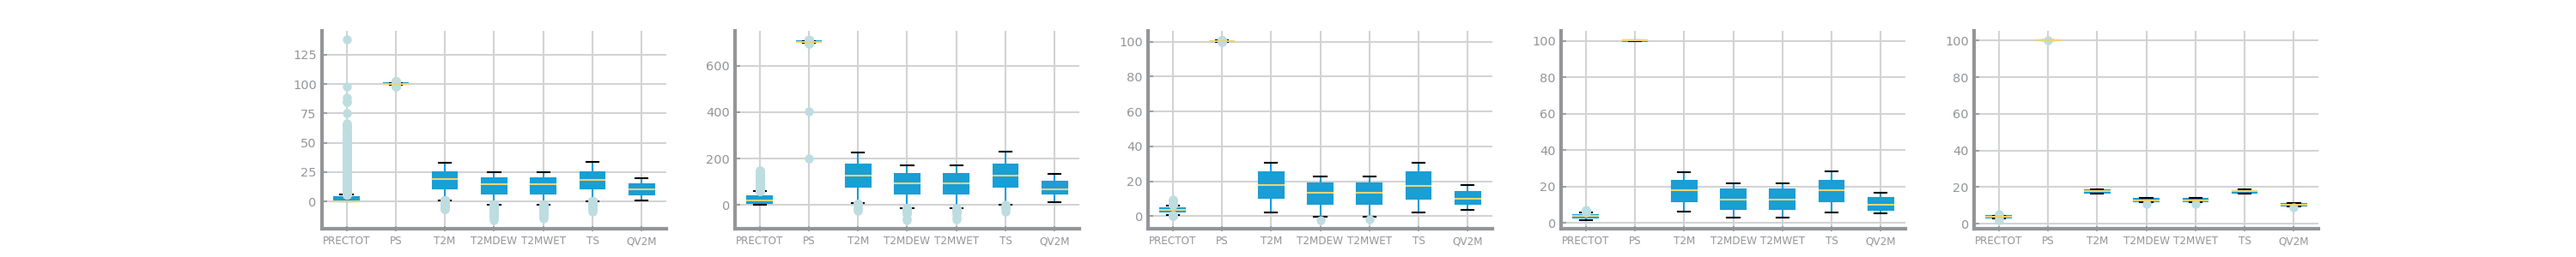
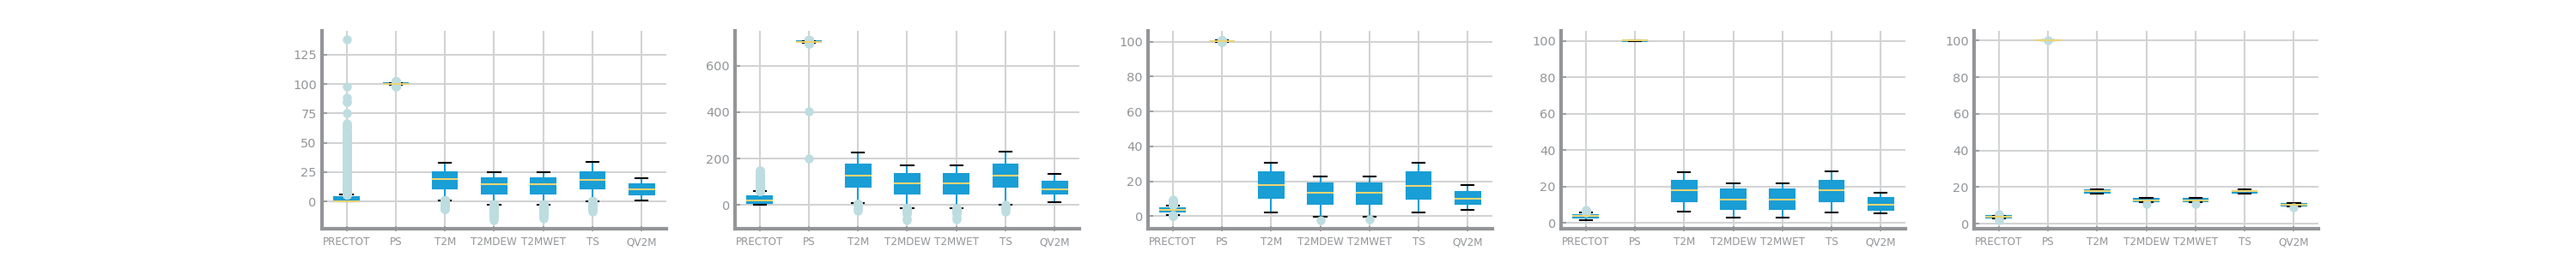
p

diff --git a/droughtDataset/lab6/transformation_aggregation.py b/droughtDataset/lab6/transformation_aggregation.py
@@ -20,15 +20,17 @@ import matplotlib.pyplot as plt
 import ds_charts as ds
 from sklearn.model_selection import train_test_split
 
-data = read_csv('../Data/TimeSeries/drought.forecasting_dataset.csv', index_col='date', sep=',', decimal='.', parse_dates=True, dayfirst=True)
-index_multi = 'date'
-target_multi = 'QV2M'
-target = 'QV2M'
-file_tag="dtimeseries"
-data_multi = read_csv('../Data/TimeSeries/drought.forecasting_dataset.csv', index_col=index_multi, parse_dates=True, dayfirst=True)
-index_col = 'date'
+#### READ DATA
 
-#### aggregation
+index_col = 'date'
+index_multi = 'date'
+target = 'QV2M'
+target_multi = 'QV2M'
+file_tag="dtimeseries"
+data = read_csv('../Data/TimeSeries/drought.forecasting_dataset.csv', index_col='date', sep=',', decimal='.', parse_dates=True, dayfirst=True)
+data_multi = read_csv('../Data/TimeSeries/drought.forecasting_dataset.csv', index_col=index_multi, parse_dates=True, dayfirst=True)
+
+#### AGGREGATION
 
 def aggregate_by(data: Series, index_var: str, period: str):
     index = data.index.to_period(period)
@@ -37,7 +39,7 @@ def aggregate_by(data: Series, index_var: str, period: str):
     agg_df.set_index(index_var, drop=True, inplace=True)
     return agg_df
 
-## multivaried series
+## MULTIVARIED SERIES
 
 granularity = ('D', 'W', 'M', 'Q', 'Y')
 for j in range(len(granularity)):
@@ -52,8 +54,8 @@ for j in range(len(granularity)):
 #### FAZER OS TRAINING SETS
 
 trnX, tstX, trnY, tstY = split_temporal_data(data_multi, target_multi, trn_pct=0.70)
-data = data_multi('QV2M', axis = 1) # see
-data = data_multi.iloc[9:,:] # see
+#data = data_multi('QV2M', axis = 1) # see
+#data = data_multi.iloc[9:,:] # see
 train, test = split_dataframe(data, trn_pct=0.70)
 
 train.to_csv(f'../Data/TimeSeries/TrainTest/{file_tag}_train.csv', index=False)

diff --git a/droughtDataset/lab6/data_distribution.py b/droughtDataset/lab6/data_distribution.py
@@ -34,7 +34,7 @@ year_df.set_index('timestamp', drop=True, inplace=True)
 
 ##### 5-number summary
 ## day data
-_, axs = subplots(1, 5, figsize=(11*HEIGHT, HEIGHT/2))
+_, axs = subplots(1, 5, figsize=(4*HEIGHT, HEIGHT/2))
 axs[0].grid(False)
 axs[0].set_axis_off()
 axs[0].set_title('DAILY', fontweight="bold")
